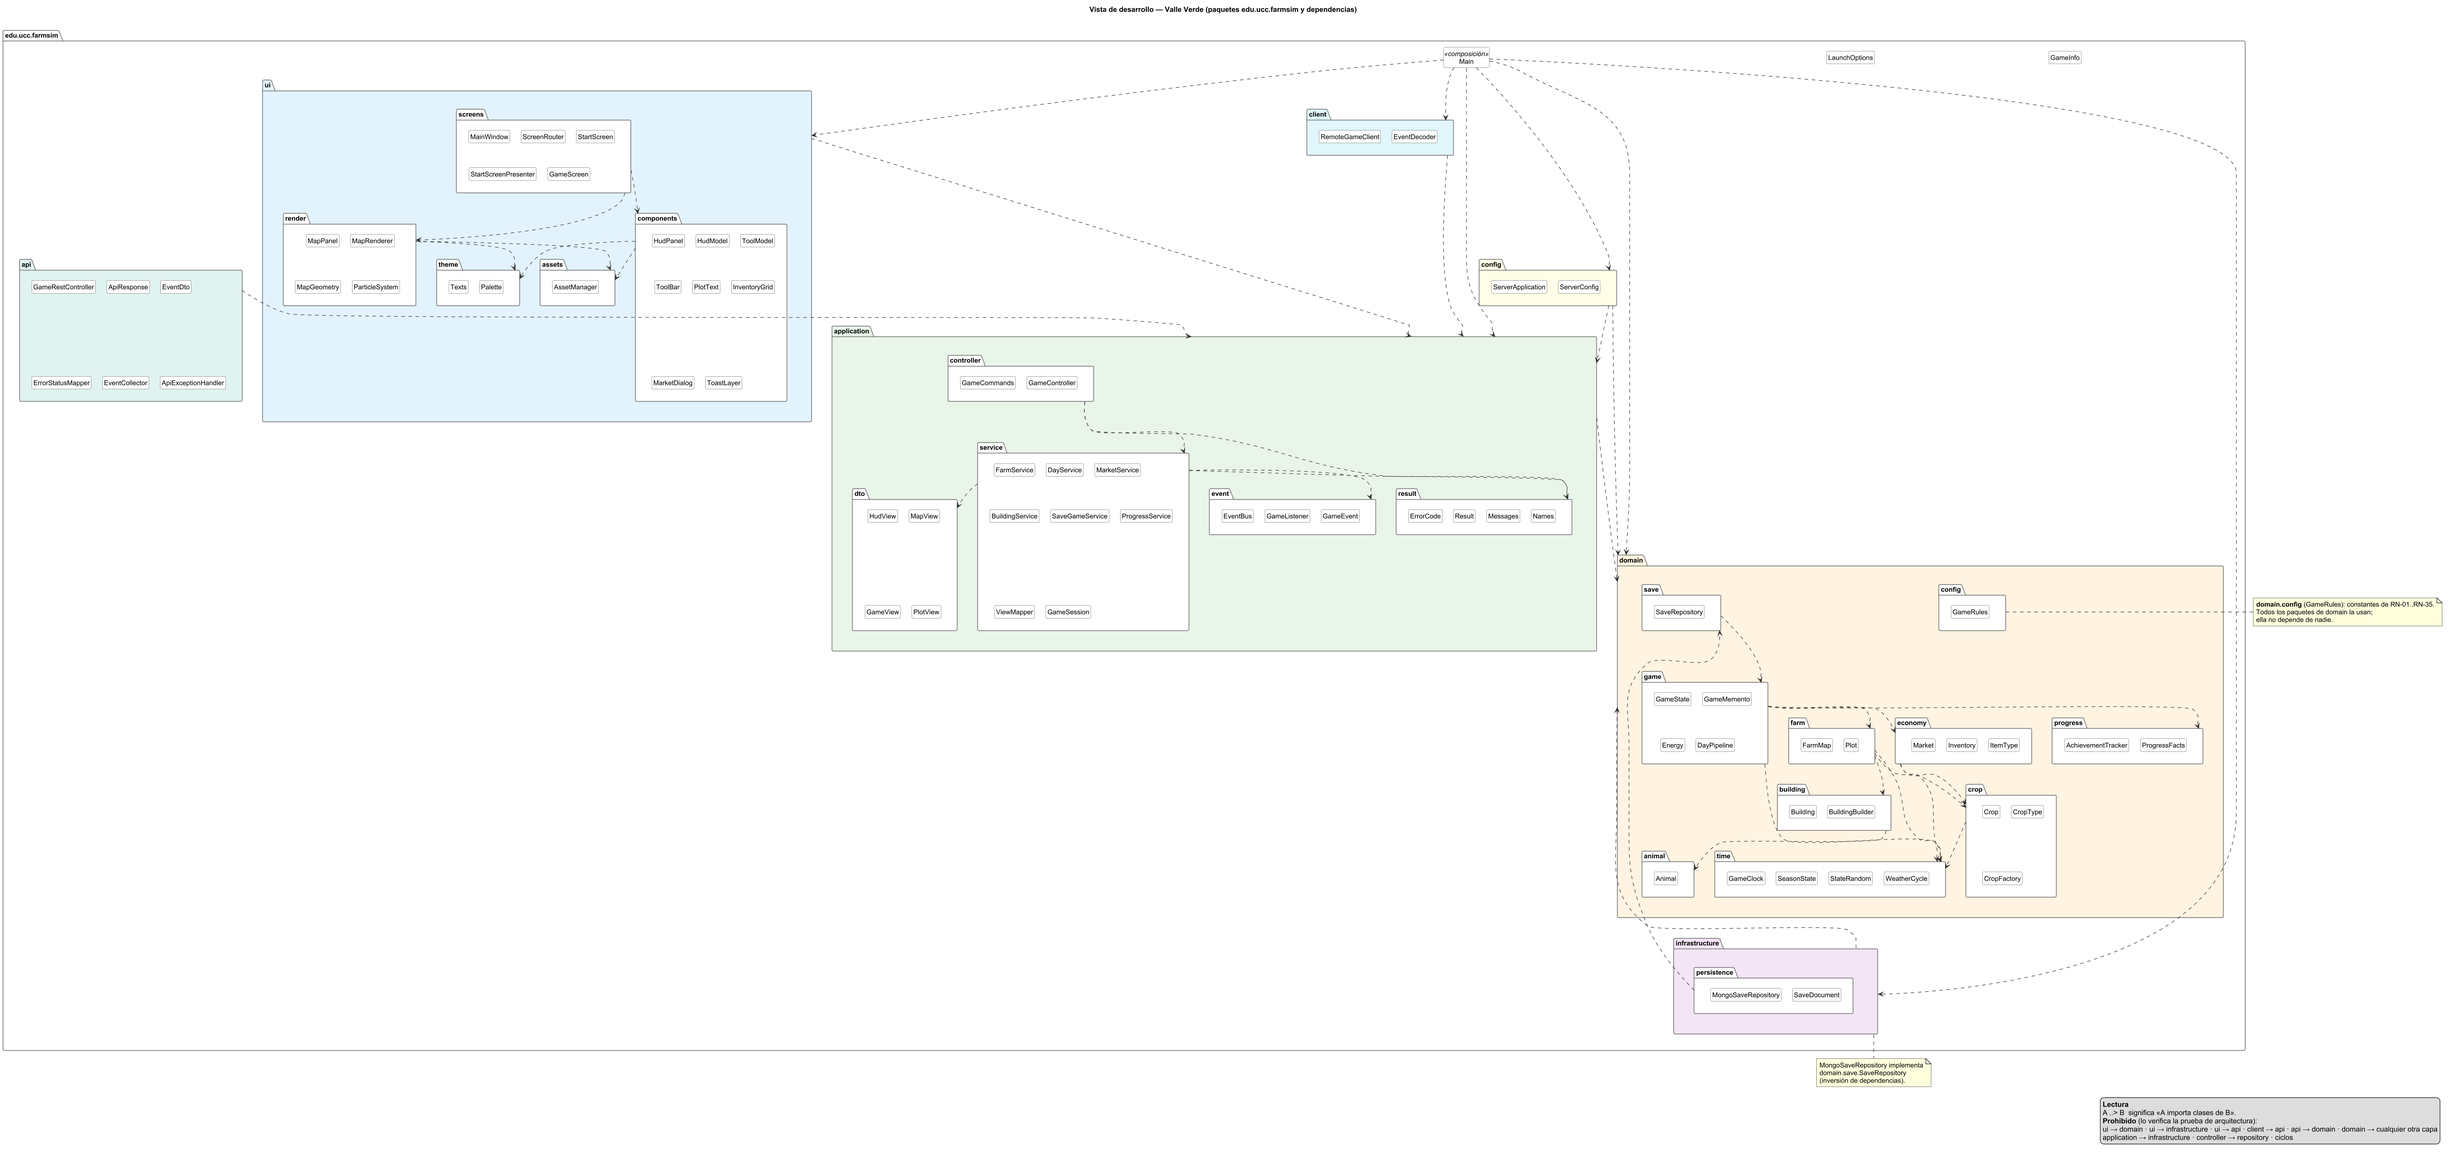
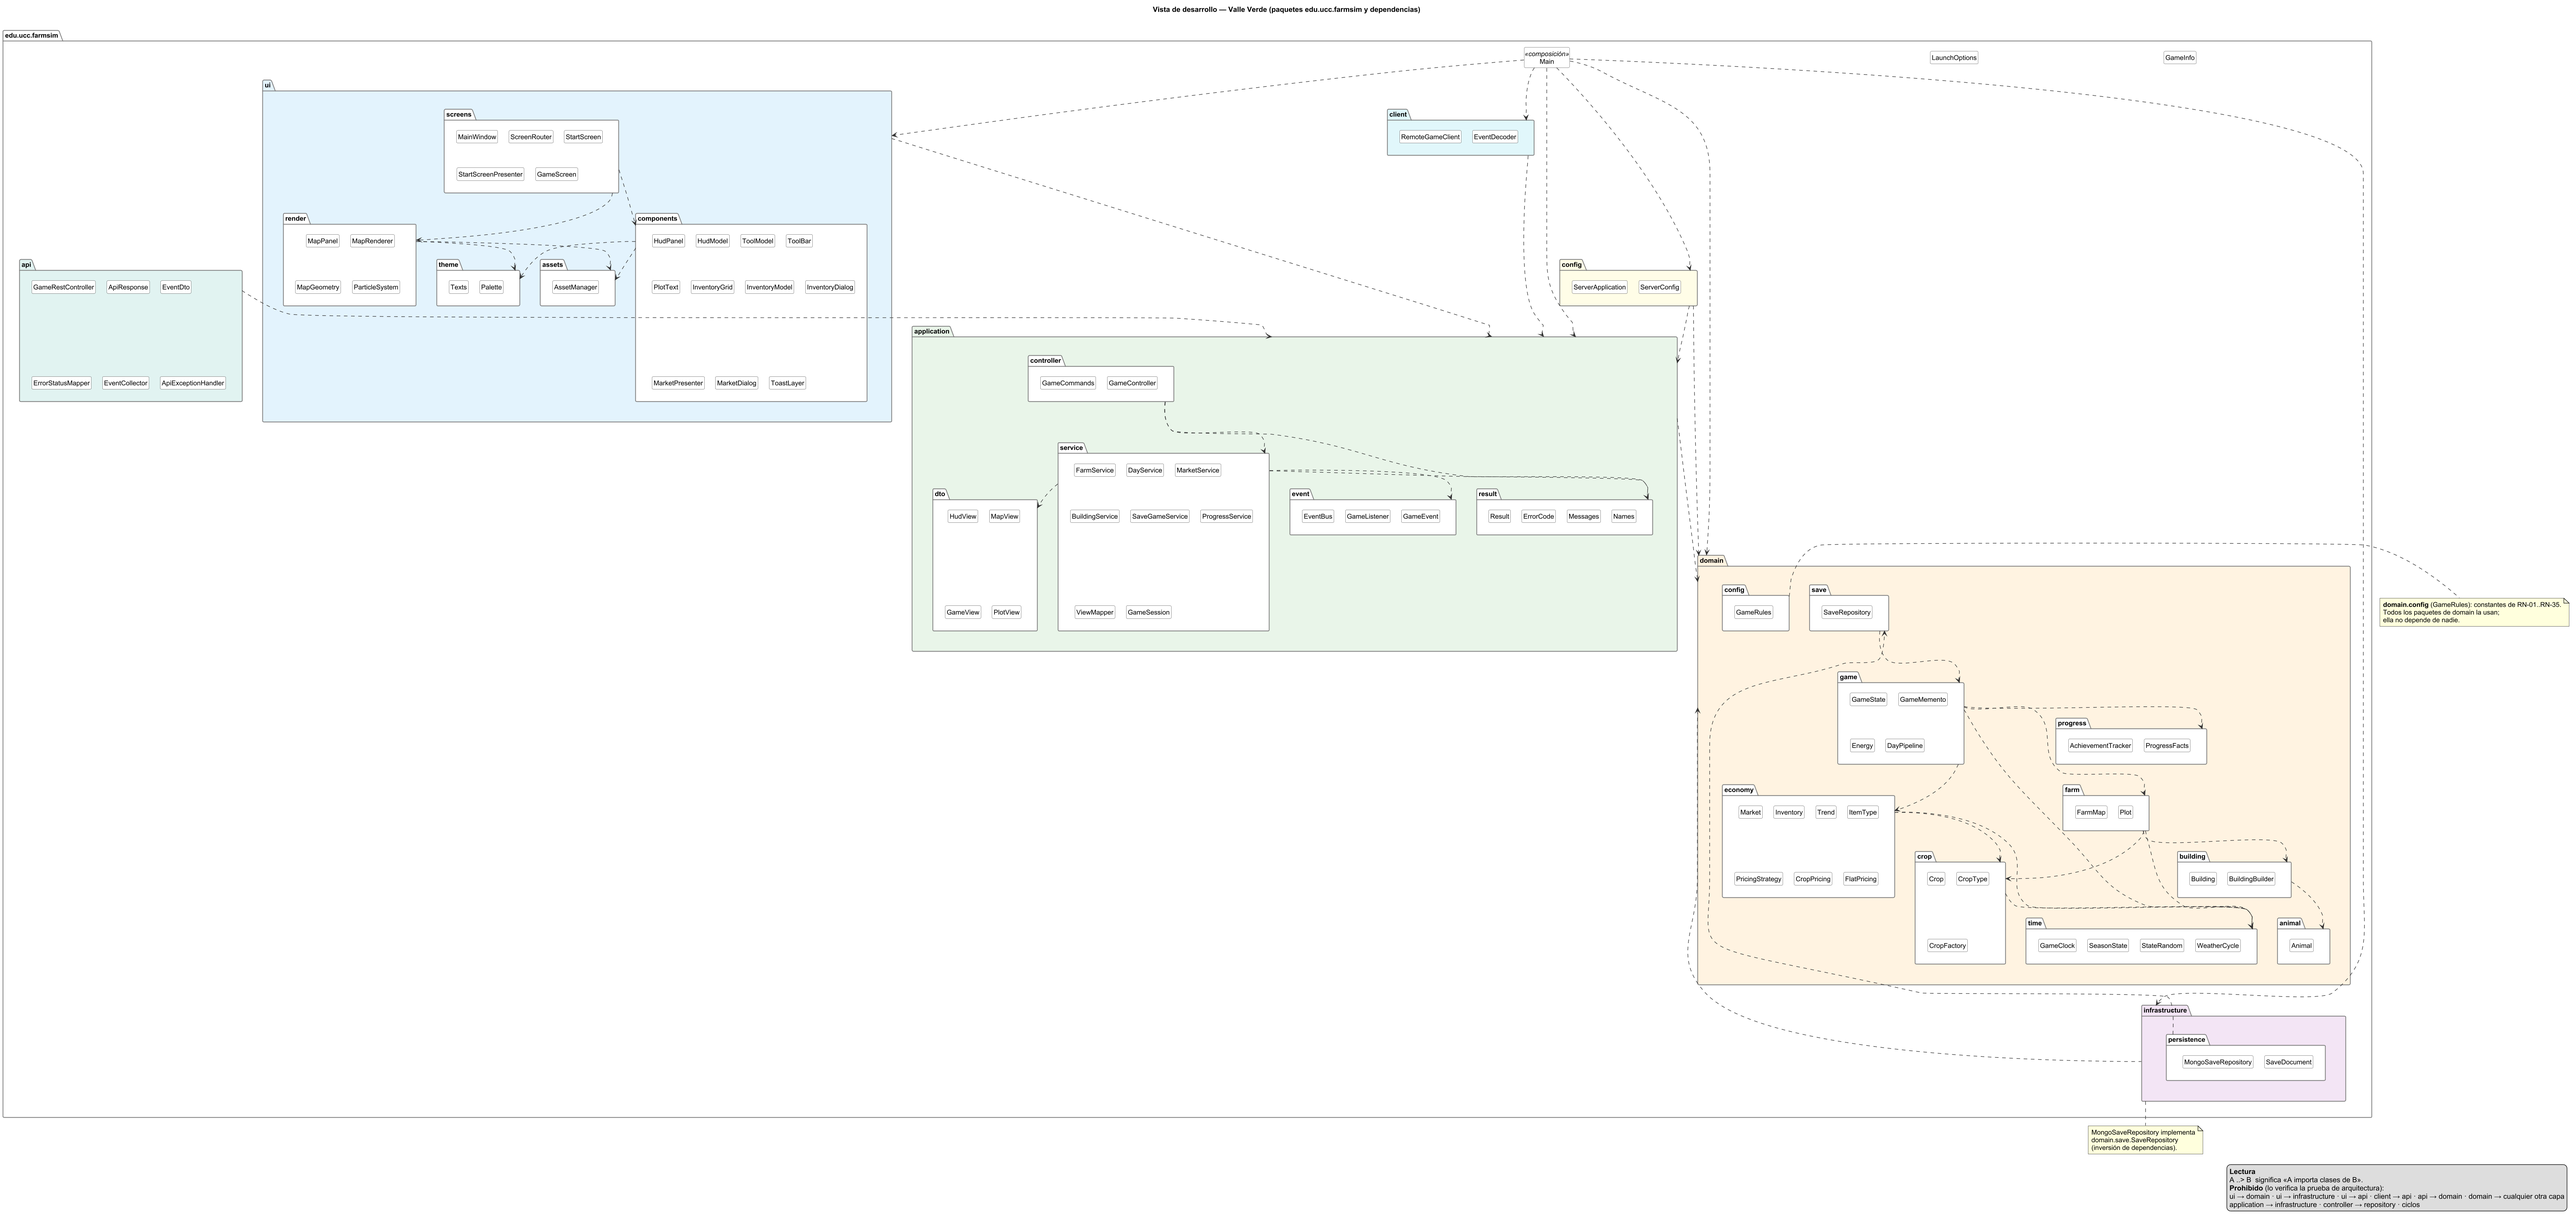
docs(architecture): record phase 5.3 results, extend the API reference and the development diagram

diff --git a/docs/ARQUITECTURA.md b/docs/ARQUITECTURA.md
@@ -2,7 +2,7 @@
 
 > **Versión 0.2 · 2026-11-22 · Fase 5.2b (migración a Spring Boot)**
 > Formaliza el diseño propuesto en los diagramas ([`DIAGRAMAS.md`](DIAGRAMAS.md)): capas, árbol de paquetes, decisiones técnicas y plan de implementación por fases con sus historias ([`HISTORIAS_DE_USUARIO.md`](HISTORIAS_DE_USUARIO.md) §7). El plan de pruebas está en [`PLAN_DE_PRUEBAS.md`](PLAN_DE_PRUEBAS.md).
-> **Estado:** las Fases 5.0 (§10), 5.1 (§11), 5.2 (§12) y 5.2b (§13, migración a servidor Spring Boot con API REST, cliente Swing por HTTP y persistencia en MongoDB) están hechas. La Fase 5.3 empieza solo con tu visto bueno.
+> **Estado:** las Fases 5.0 (§10), 5.1 (§11), 5.2 (§12) y 5.2b (§13, migración a servidor Spring Boot con API REST, cliente Swing por HTTP y persistencia en MongoDB) y 5.3 (§14) están hechas. La Fase 5.4 empieza solo con tu visto bueno.
 
 ## 1. Estilo arquitectónico
 
@@ -328,4 +328,44 @@ Ajustes surgidos al implementar: (1) `Main` se declara como capa «Composition»
 **Pendiente de la persistencia (5.5):** guardar, cargar y listar (`PUT`/`POST /api/saves/{slot}`), `SaveCodec` con Jackson, `Checksum` y `GameStateValidator`. El adaptador y el formato de documento (`SaveDocument`) ya existen.
 
 **Diagramas:** las 6 vistas se actualizaron (MongoDB, cliente, API REST, paquetes `client`/`api`/`config`, despliegue con servidor y cliente dentro de la JVM, y la secuencia A1 con el salto HTTP); `check_diagrams.py` y `check_imports.py` terminan sin errores.
+
+## 14. Estado de la Fase 5.3 (clima y economía)
+
+**Historias cerradas (6 historias, 23 puntos):** HU-12, 14, 15, 16, 37 y 38. `python tools/traceability.py --upto 5.3` termina sin errores.
+
+| Resultado | Valor |
+|---|---|
+| Pruebas | 280 en verde y 2 omitidas con aviso (las de MongoDB real); 194 con prefijo `HUxx_` |
+| Cobertura de líneas (JaCoCo) | **dominio 97,7 %**, **aplicación 96,9 %**, UI 90,7 %, API 95,2 %, cliente 89,3 % (barrera: 70 % en dominio y aplicación) |
+| Patrones aplicados | Strategy: `PricingStrategy` con `CropPricing` y `FlatPricing`; Observer: `InventoryModel`; todos registrados en `patterns.txt` |
+| Pruebas críticas cerradas | **3** `HU12_ca2_frostWithersEveryCropInTheOpenEvenAMatureOne` y **4** `HU15_ca2_afterTenCarrotsTheNextOnePaysOnly22` con `HU15_ca3_theDemandNeverFallsBelow50` |
+| Arranque | 4,1 a 4,3 s con la máquina libre (5.2b); al medir de nuevo con el servidor de Java de VS Code indexando el proyecto subió a 5 a 7,5 s: el límite de RNF-02 (≤ 5 s) depende de la carga del equipo (RT-09) y conviene medirlo otra vez en el cierre del proyecto |
+| API nueva | `GET /api/market`, `POST /api/market/purchases`, `POST /api/market/sales`, `GET /api/market/quotes`, `GET /api/inventory` (ver [`API.md`](API.md)) |
+
+**Decisiones tomadas al implementar:**
+
+| # | Decisión | Motivo |
+|---|---|---|
+| D-24 | El paso de efectos del clima (`WeatherEffectsStep`) es el primero del *pipeline* y el de mercado (`MarketStep`) el cuarto | Es exactamente el orden de RN-03 |
+| D-25 | `CropType` conoce el precio de semilla y la venta base (tabla de RN-05); `ItemType` sigue sin conocer a `CropType` hacia atrás | Una sola tabla por cultivo; sin ciclo `crop ↔ economy` (D-07) |
+| D-26 | Precio = `máx(1, ⌊(base × factor × demanda + 5 000) / 10 000⌋)` con enteros | Es el redondeo half-up de RN-17 sin números decimales |
+| D-27 | La tendencia (RN-19) guarda «precio anterior = 0» al inicio, que se muestra como ▬; `MarketSnapshot` lo conserva en el memento | «Al inicio todos muestran ▬» sin inventar un precio previo |
+| D-28 | `GET /api/market/quotes` calcula el «total previsto» en el servidor | El total depende de la demanda que baja unidad a unidad (79 m, no 3 × 27) |
+| D-29 | Sembrar y cosechar publican `InventoryChanged`; el modelo del inventario recarga y limpia la semilla elegida si se agota | HU-37 · CA-3 por eventos (Observer), sin consultar en bucle |
+| D-30 | El inventario y el mercado son diálogos modales (`I`, `M`; `Esc` cierra) y la lógica vive en `InventoryModel` y `MarketPresenter`, sin Swing | RT-04: se prueba sin pantalla; el modal impide clics en el mapa (HU-38 · CA-1) |
+| D-31 | Las compras y ventas responden `200` (no `201`) | Son órdenes sobre el mercado, no recursos que se consulten después |
+| D-32 | Ante una semilla o un producto que no corresponde (vender una semilla, comprar una cosecha) el servidor responde `500 ERROR_INTERNO` | Como D-22: la UI nunca lo envía y RN-35 no tiene código para ello |
+
+**Criterios cubiertos en parte (se completan donde nace lo que falta):**
+
+| Criterio | Qué falta | Fase |
+|---|---|---|
+| HU-28 · CA-1 | solo falta que los logros bloqueados empiecen con contadores en 0 (la demanda 100 ya se prueba) | 5.5 |
+| HU-37 · CA-2 | la grilla ya refleja la capacidad que informe el inventario; construir el Almacén (+12) llega con HU-20 | 5.4 |
+| HU-38 · CA-3 | el ejemplo de la Vaca (800 m): el catálogo de compra solo tiene semillas, heno y medicina; las compras de Gallina y Vaca llegan con los edificios. La prueba usa Medicina | 5.4 |
+| HU-10 · CA-3, HU-33 · CA-3 | rendimiento a plena carga y cargar una partida guardada | 5.5 |
+| HU-35 · CA-3, HU-36 · CA-4 | dibujar edificios y animales; recolectar sus productos con «Cosechar» | 5.4 |
+| HU-36 · CA-5 | los atajos `L`, `F5` y `F9` aún responden que llegarán (`M` e `I` ya abren su función) | 5.5 |
+
+**Diagramas:** `04_vista_desarrollo` incluye las clases nuevas; el resto de vistas ya tenían el diseño de la economía (Strategy de precios, `MarketService`, `MarketDialog`). `check_diagrams.py` y `check_imports.py` terminan sin errores.
 

diff --git a/README.md b/README.md
@@ -14,9 +14,10 @@ Simulador de granja 2D **por turnos** (un turno = un día), hecho en Java con Sw
 | **5.1** | Núcleo del turno: inventario, calendario, energía, clima, nueva partida, terminar día, pantalla de inicio y HUD (8 historias) | **hecha** |
 | **5.2** | Cultivo: sembrar, regar, crecer, cosechar, marchitar y limpiar, con el mapa Java2D, herramientas y atajos (9 historias) | **hecha** |
 | **5.2b** | Migración a Spring Boot: servidor con API REST, cliente Swing por HTTP y partidas en MongoDB | **hecha** |
-| 5.3 a 5.6 | Economía, animales y edificios, guardado y pulido visual | pendientes |
+| **5.3** | Clima y economía: efectos del clima, mercado con precios dinámicos, tendencia, inventario en grilla y mercado modal (6 historias) | **hecha** |
+| 5.4 a 5.6 | Construcción y animales, progresión y guardado, pulido visual | pendientes |
 
-Hoy el juego abre la **pantalla de inicio** (Nueva partida, Cargar, Salir) y una pantalla de juego con la barra superior (dinero, fecha, clima, pronóstico y energía) y el botón «Terminar día». Desde la fase 5.2 también tiene el **mapa de la granja**: eliges una herramienta (teclas `1` a `5` o la barra), eliges la semilla y haces clic en una parcela de tierra para sembrar, regar y cosechar; `Enter` termina el día. El mercado, los animales y el guardado llegan en las fases siguientes.
+Hoy el juego abre la **pantalla de inicio** (Nueva partida, Cargar, Salir) y una pantalla de juego con la barra superior (dinero, fecha, clima, pronóstico y energía) y el botón «Terminar día». Desde la fase 5.2 también tiene el **mapa de la granja**: eliges una herramienta (teclas `1` a `5` o la barra), eliges la semilla y haces clic en una parcela de tierra para sembrar, regar y cosechar; `Enter` termina el día. Desde la 5.3 el clima importa (la lluvia riega, la helada marchita), `I` abre el **inventario** en grilla (clic en una semilla para elegirla) y `M` el **mercado** con las pestañas Comprar y Vender, precios que cambian con la temporada y la saturación, y la tendencia ▲ ▼ ▬. Los animales y el guardado llegan en las fases siguientes.
 
 ## Requisitos
 
@@ -77,11 +78,12 @@ edu.ucc.farmsim
 | State | `CropState` con `SeedState`, `SproutState`, `GrowingState`, `MatureState`, `WitheredState` (contexto `Crop`) | HU-03, HU-05 | hecho (5.2) |
 | State | `AnimalState` y sus estados concretos | HU-21 | 5.4 |
 | Strategy | `WeatherStrategy` con `SeasonalWeatherStrategy` y `FixedWeatherStrategy` | HU-11 | hecho (5.1) |
-| Strategy | `PricingStrategy` | HU-15 | 5.3 |
+| Strategy | `PricingStrategy` con `CropPricing` y `FlatPricing` | HU-15 | hecho (5.3) |
 | Observer | `EventBus`, `GameListener`, `HudModel`, `HudPanel` | HU-10, HU-34 | hecho (5.1) |
 | Observer | `MapPanel` | HU-35 | hecho (5.2) |
 | Observer | `ToastLayer` | HU-39 | 5.6 |
 | Memento | `GameState` (originador), `GameMemento` | HU-10 | en memoria (5.1); guardado en MongoDB en 5.5 |
+| Observer | `InventoryModel` | HU-37 | hecho (5.3) |
 | Observer | `EventCollector` (el servidor guarda los eventos para la respuesta) | RNF-15 | hecho (5.2b) |
 | Factory Method | `CropFactory` con `CarrotFactory`, `PotatoFactory`, `TomatoFactory`, `CornFactory`, `PumpkinFactory` | HU-01 | hecho (5.2) |
 | Builder | `BuildingBuilder`, `BuildingDirector` | HU-18 | 5.4 |

diff --git a/docs/API.md b/docs/API.md
@@ -1,6 +1,6 @@
 # API REST — Valle Verde
 
-> **Versión 0.1 · 2026-11-22 · Fase 5.2b**
+> **Versión 0.2 · 2026-11-22 · Fase 5.3**
 > Describe las rutas que el servidor Spring Boot ofrece al cliente Swing (RNF-15, AR-12). El servidor escucha solo en `127.0.0.1`; con `java -jar farmsim.jar` el puerto es libre y lo conoce el cliente, y con `--server --port 8080` es el indicado. Hay **una partida por servidor** y no hay sesión de usuario.
 
 ## 1. Convenciones
@@ -28,11 +28,16 @@ Las columnas de tipo usan los *records* de `application.dto` (`HudView`, `PlotVi
 | `POST /api/farm/plots/{col}/{row}/crop` | `plant(col, row, seedId)` | `{ "seedId": "CARROT_SEED" }` | `PlotView` | `201` |
 | `POST /api/farm/plots/{col}/{row}/watering` | `water(col, row)` | — | `PlotView` | `200` |
 | `POST /api/farm/plots/{col}/{row}/harvest` | `harvest(col, row)` | — | `PlotView` | `200` |
+| `GET /api/market` | `market()` | — | `MarketView` (qué se vende y con qué tendencia, y el catálogo de compra) | `200` |
+| `POST /api/market/purchases` | `buy(itemId, quantity)` | `{ "itemId": "CORN_SEED", "quantity": 5 }` | total pagado (m) | `200` |
+| `POST /api/market/sales` | `sell(itemId, quantity)` | `{ "itemId": "CARROT", "quantity": 3 }` | total recibido (m) | `200` |
+| `GET /api/market/quotes?itemId=CARROT&quantity=3` | `quote(itemId, quantity)` | — | total previsto (m), sin vender | `200` |
+| `GET /api/inventory` | `inventory()` | — | `InventoryView` (capacidad y casillas ocupadas) | `200` |
 | `GET /api/saves/any` | `hasSavedGames()` | — | `true` / `false` | `200` |
 
 `hasGameInProgress()` no tiene ruta propia: el cliente lo deduce de `GET /api/game` (`404 SIN_PARTIDA` = no hay partida).
 
-**Rutas planificadas** (se agregan con su historia, siempre con endpoint y prueba, DoD 11): `POST /api/market/sales` (HU-15, vender), `/api/market`, `/api/buildings`, `/api/animals` y `/api/saves/{slot}` (HU-29 a HU-32, con `PUT` para guardar y `POST …/load` para cargar).
+**Rutas planificadas** (se agregan con su historia, siempre con endpoint y prueba, DoD 11): `/api/buildings` y `/api/animals` (Fase 5.4) y `/api/saves/{slot}` (HU-29 a HU-32, con `PUT` para guardar y `POST …/load` para cargar).
 
 ### Ejemplo
 
